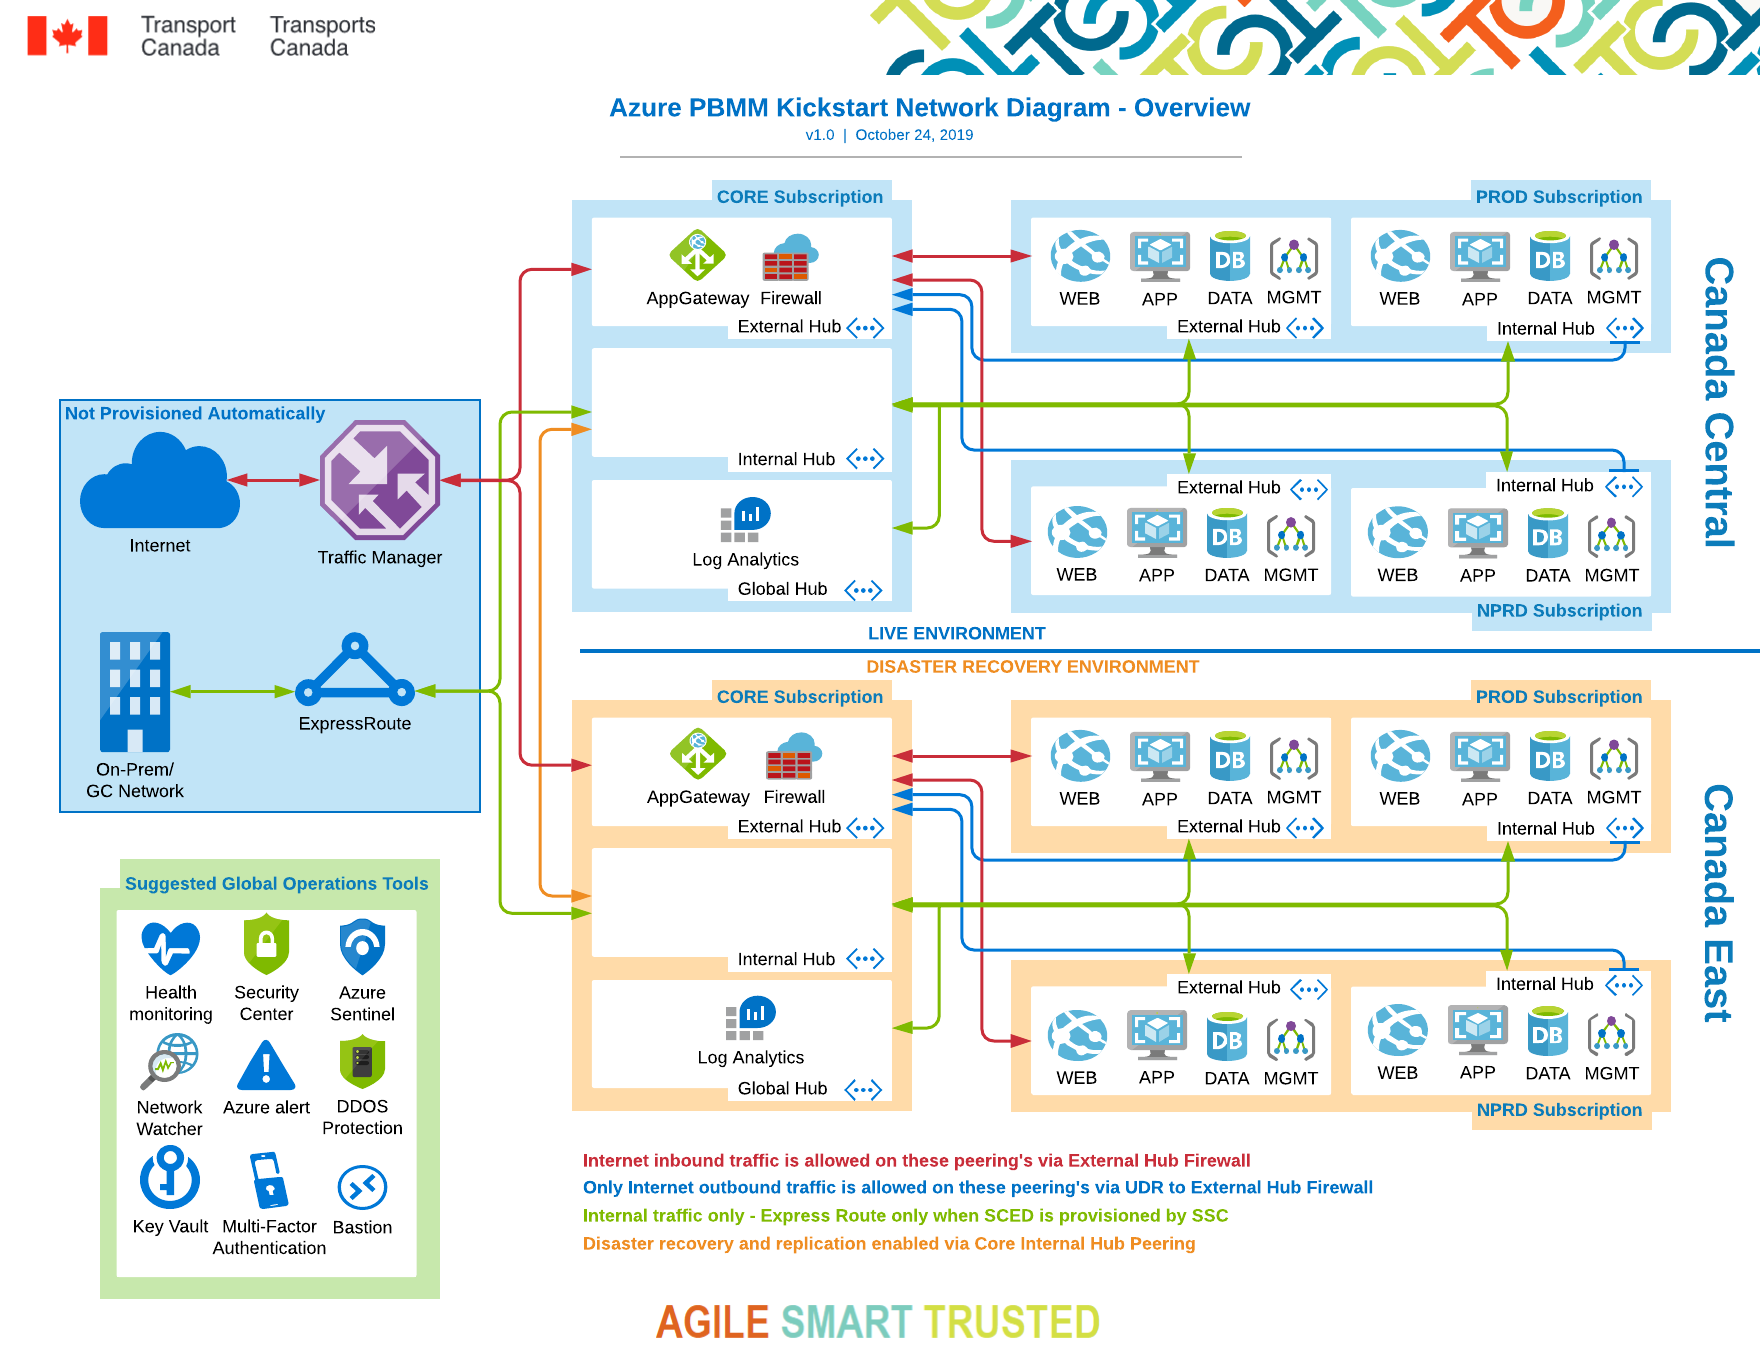
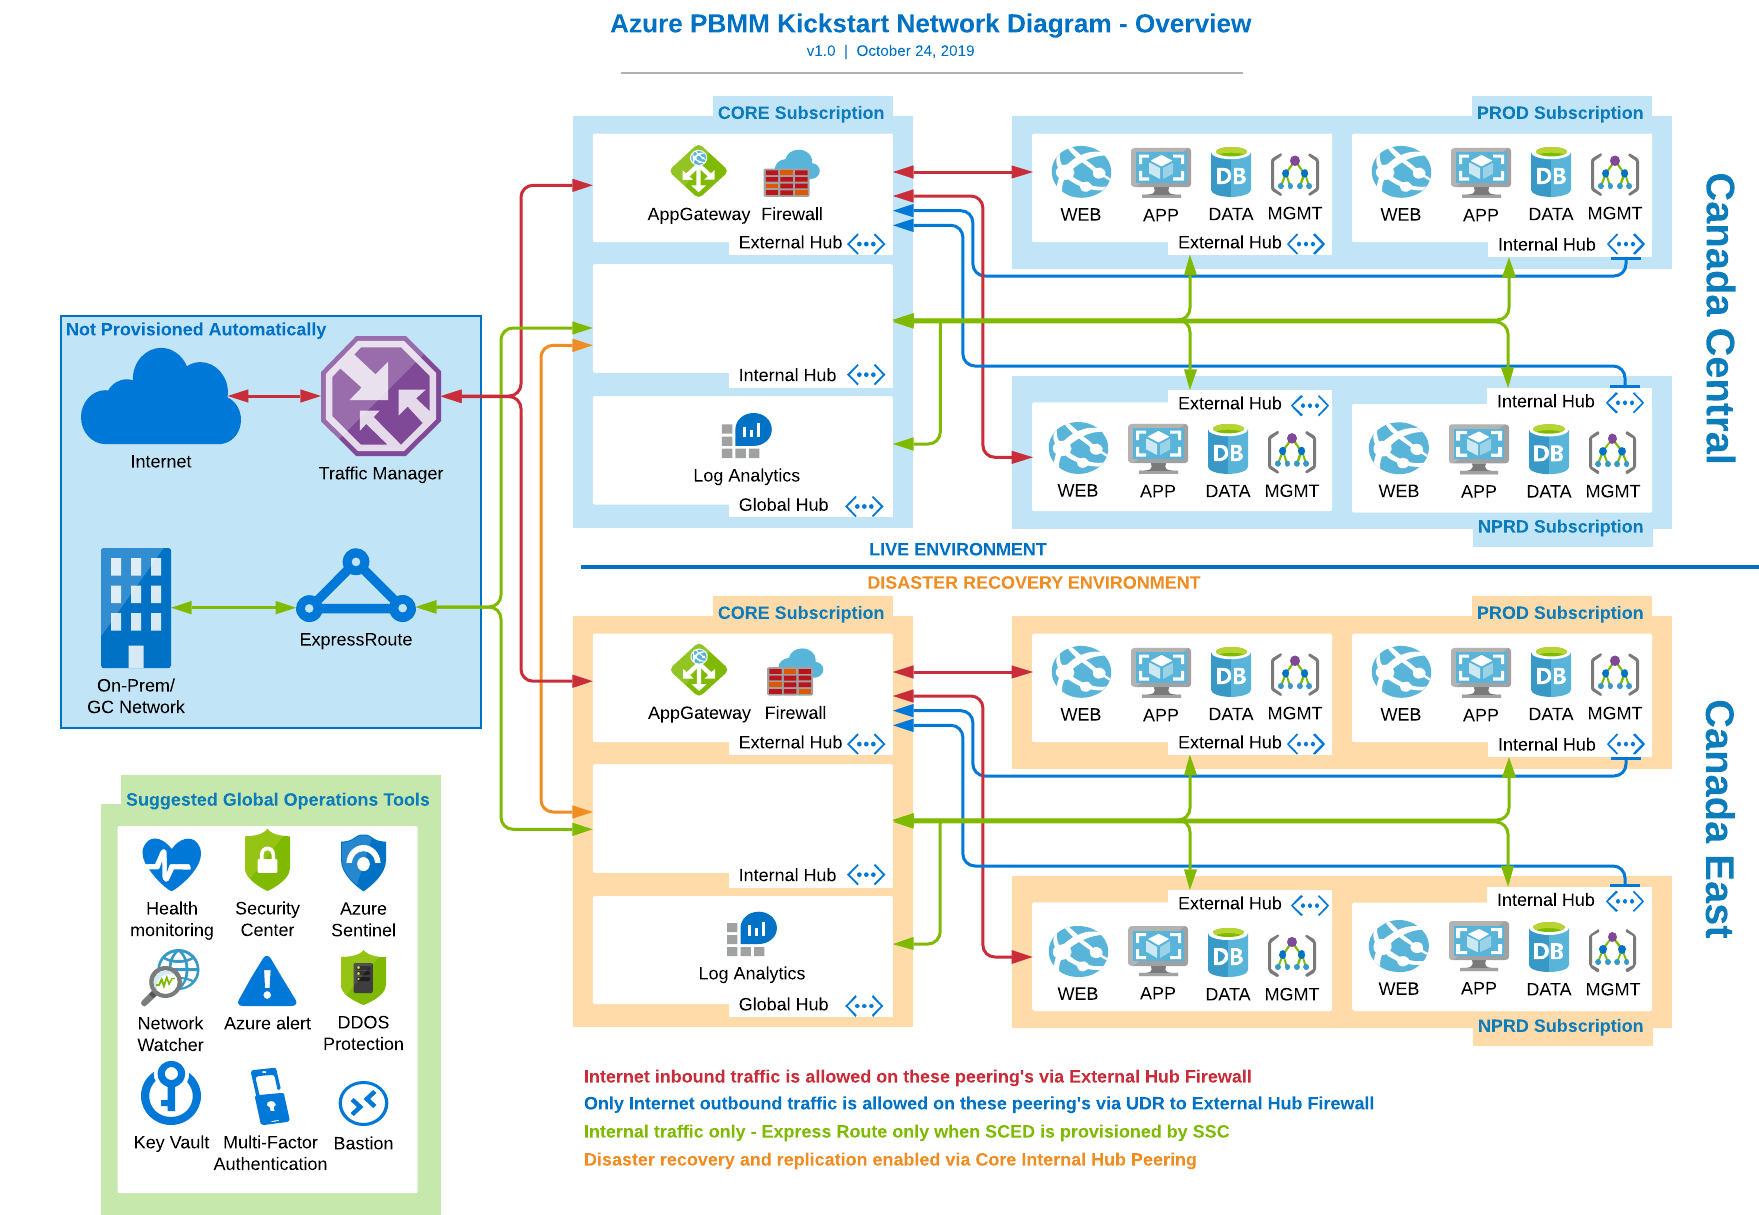
removed IP allocation notice (resolved) updated diagram to unbranded version

diff --git a/Deployments/powershell/AzureTemplateGenerator/README.md b/Deployments/powershell/AzureTemplateGenerator/README.md
@@ -6,8 +6,6 @@
 
 **_NOTICE_**: _This is a work in progress and no warranty or guarantee is provided or implied. You will need to complete additional tasks (configure monitoring, Active Directory, MFA, etc...) in order to completely satisfy PBMM requirements and security controls for your SA&A._
 
-**_NOTICE 2_**: An issue with IP allocation has been discovered and a fix is coming!
-
 _More complete documentation is "COMING SOON"!_
 
 ## What does this thing do?
